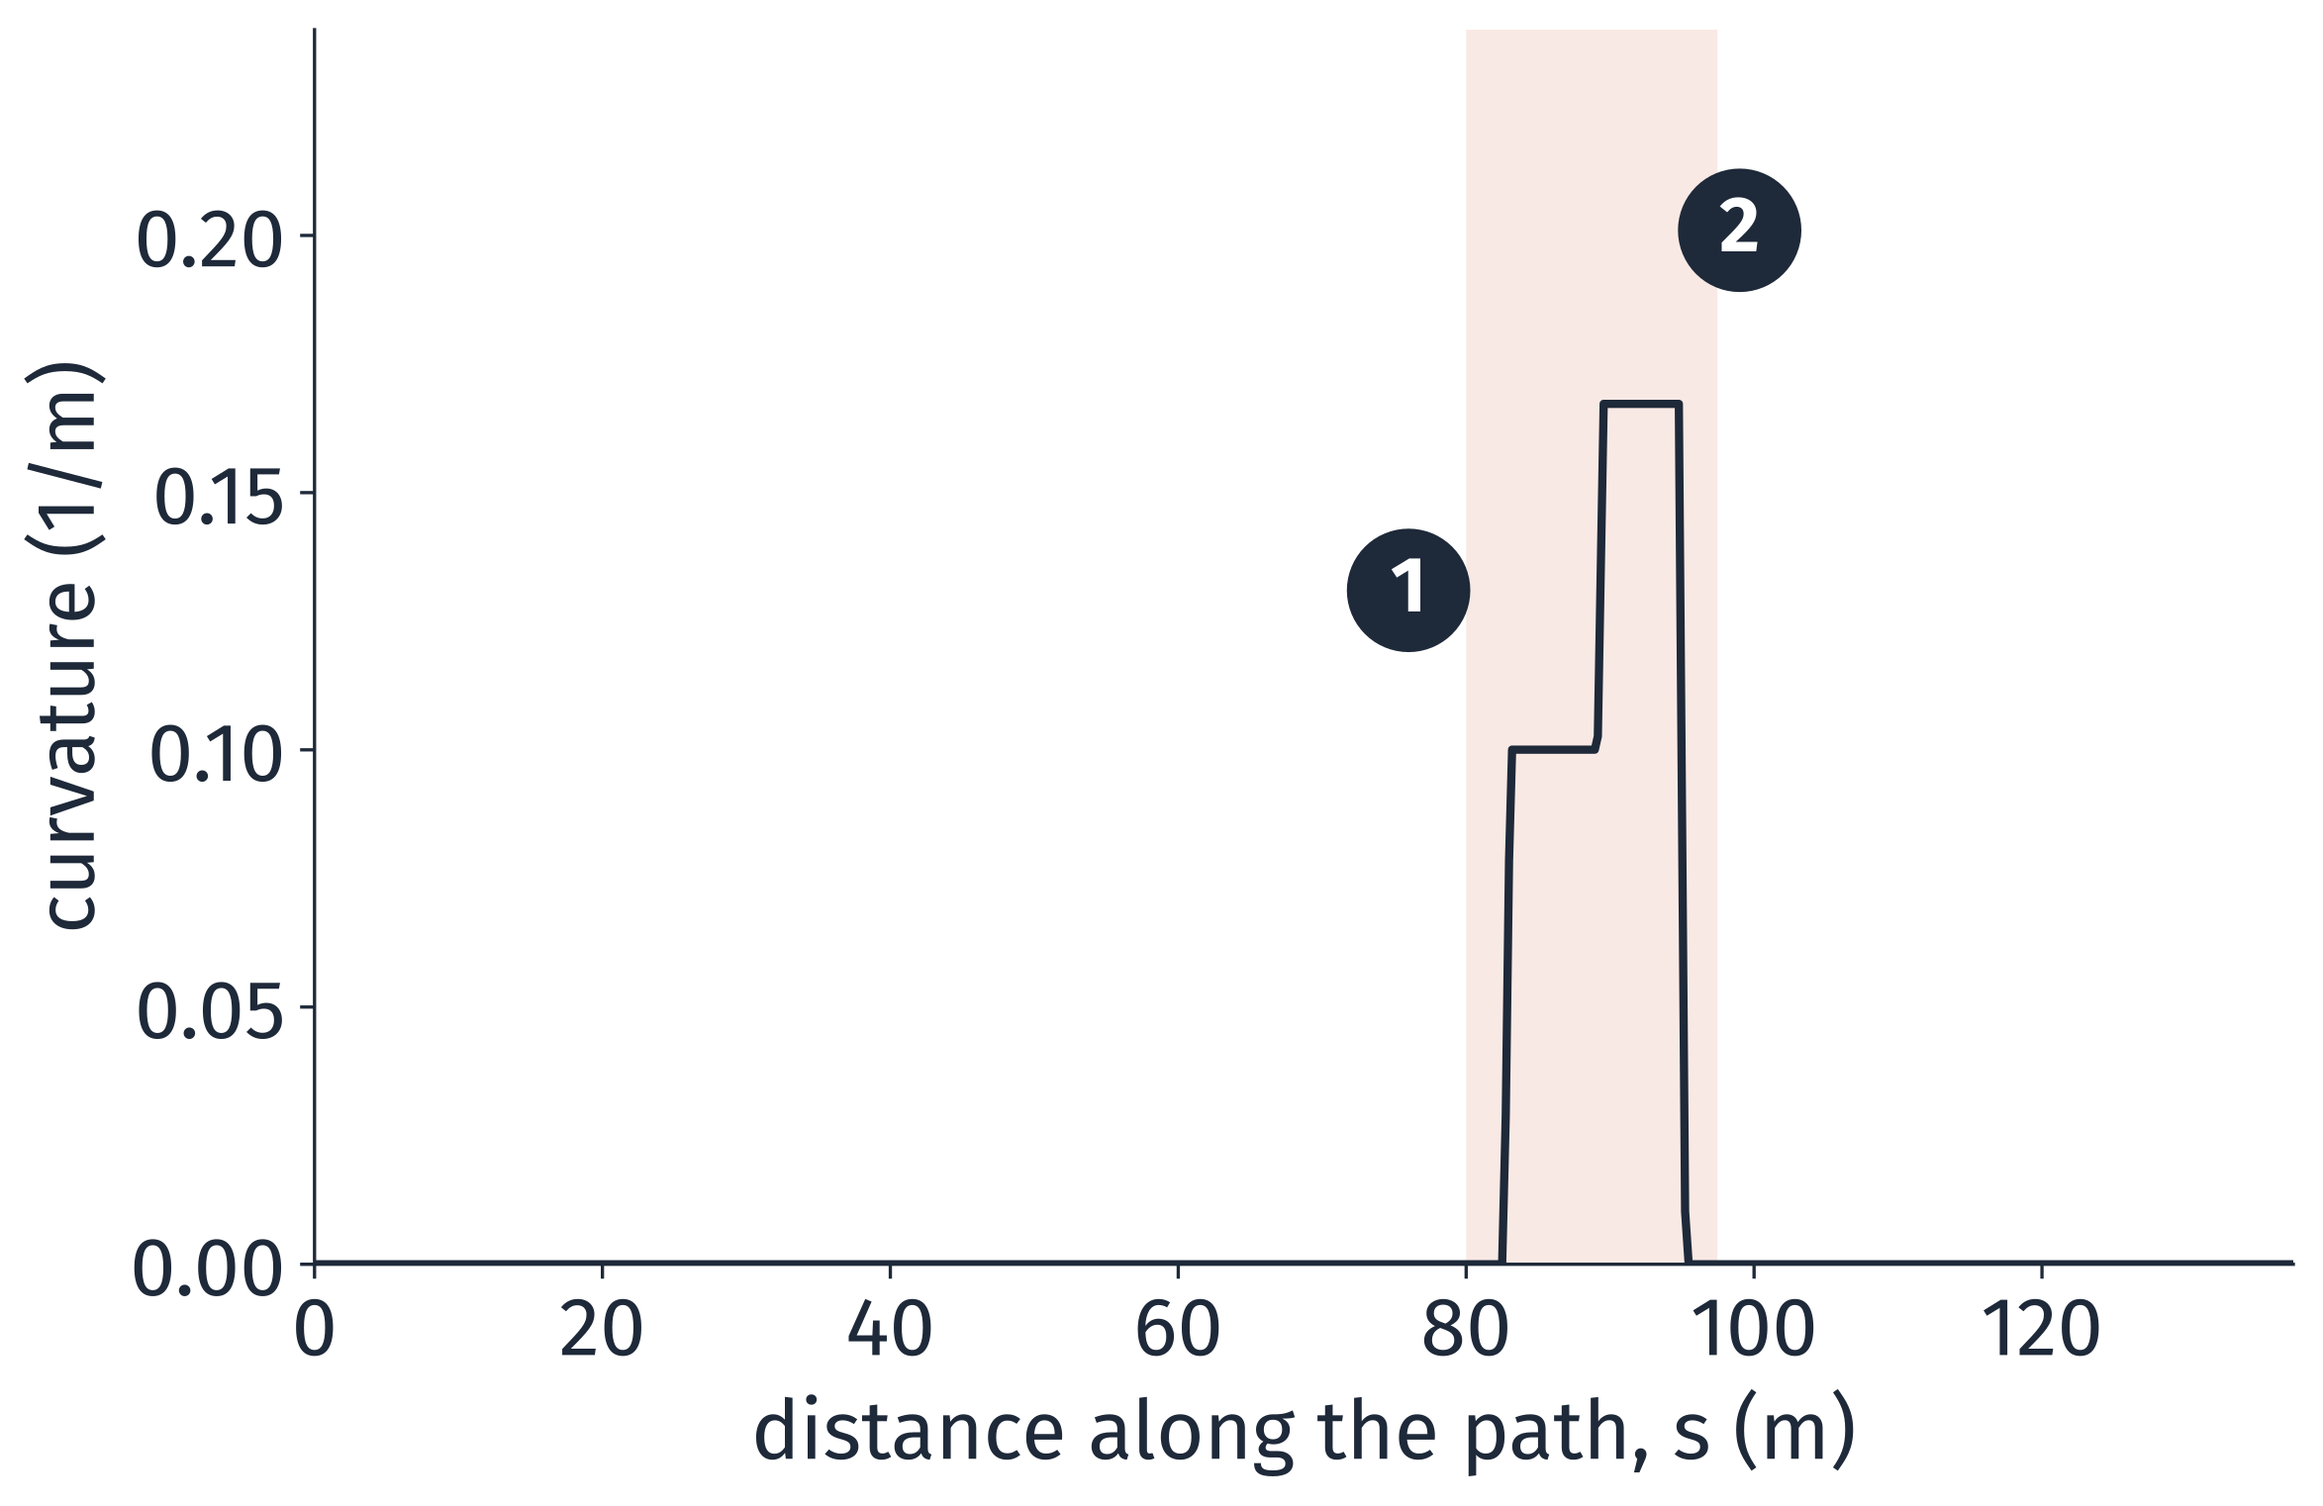
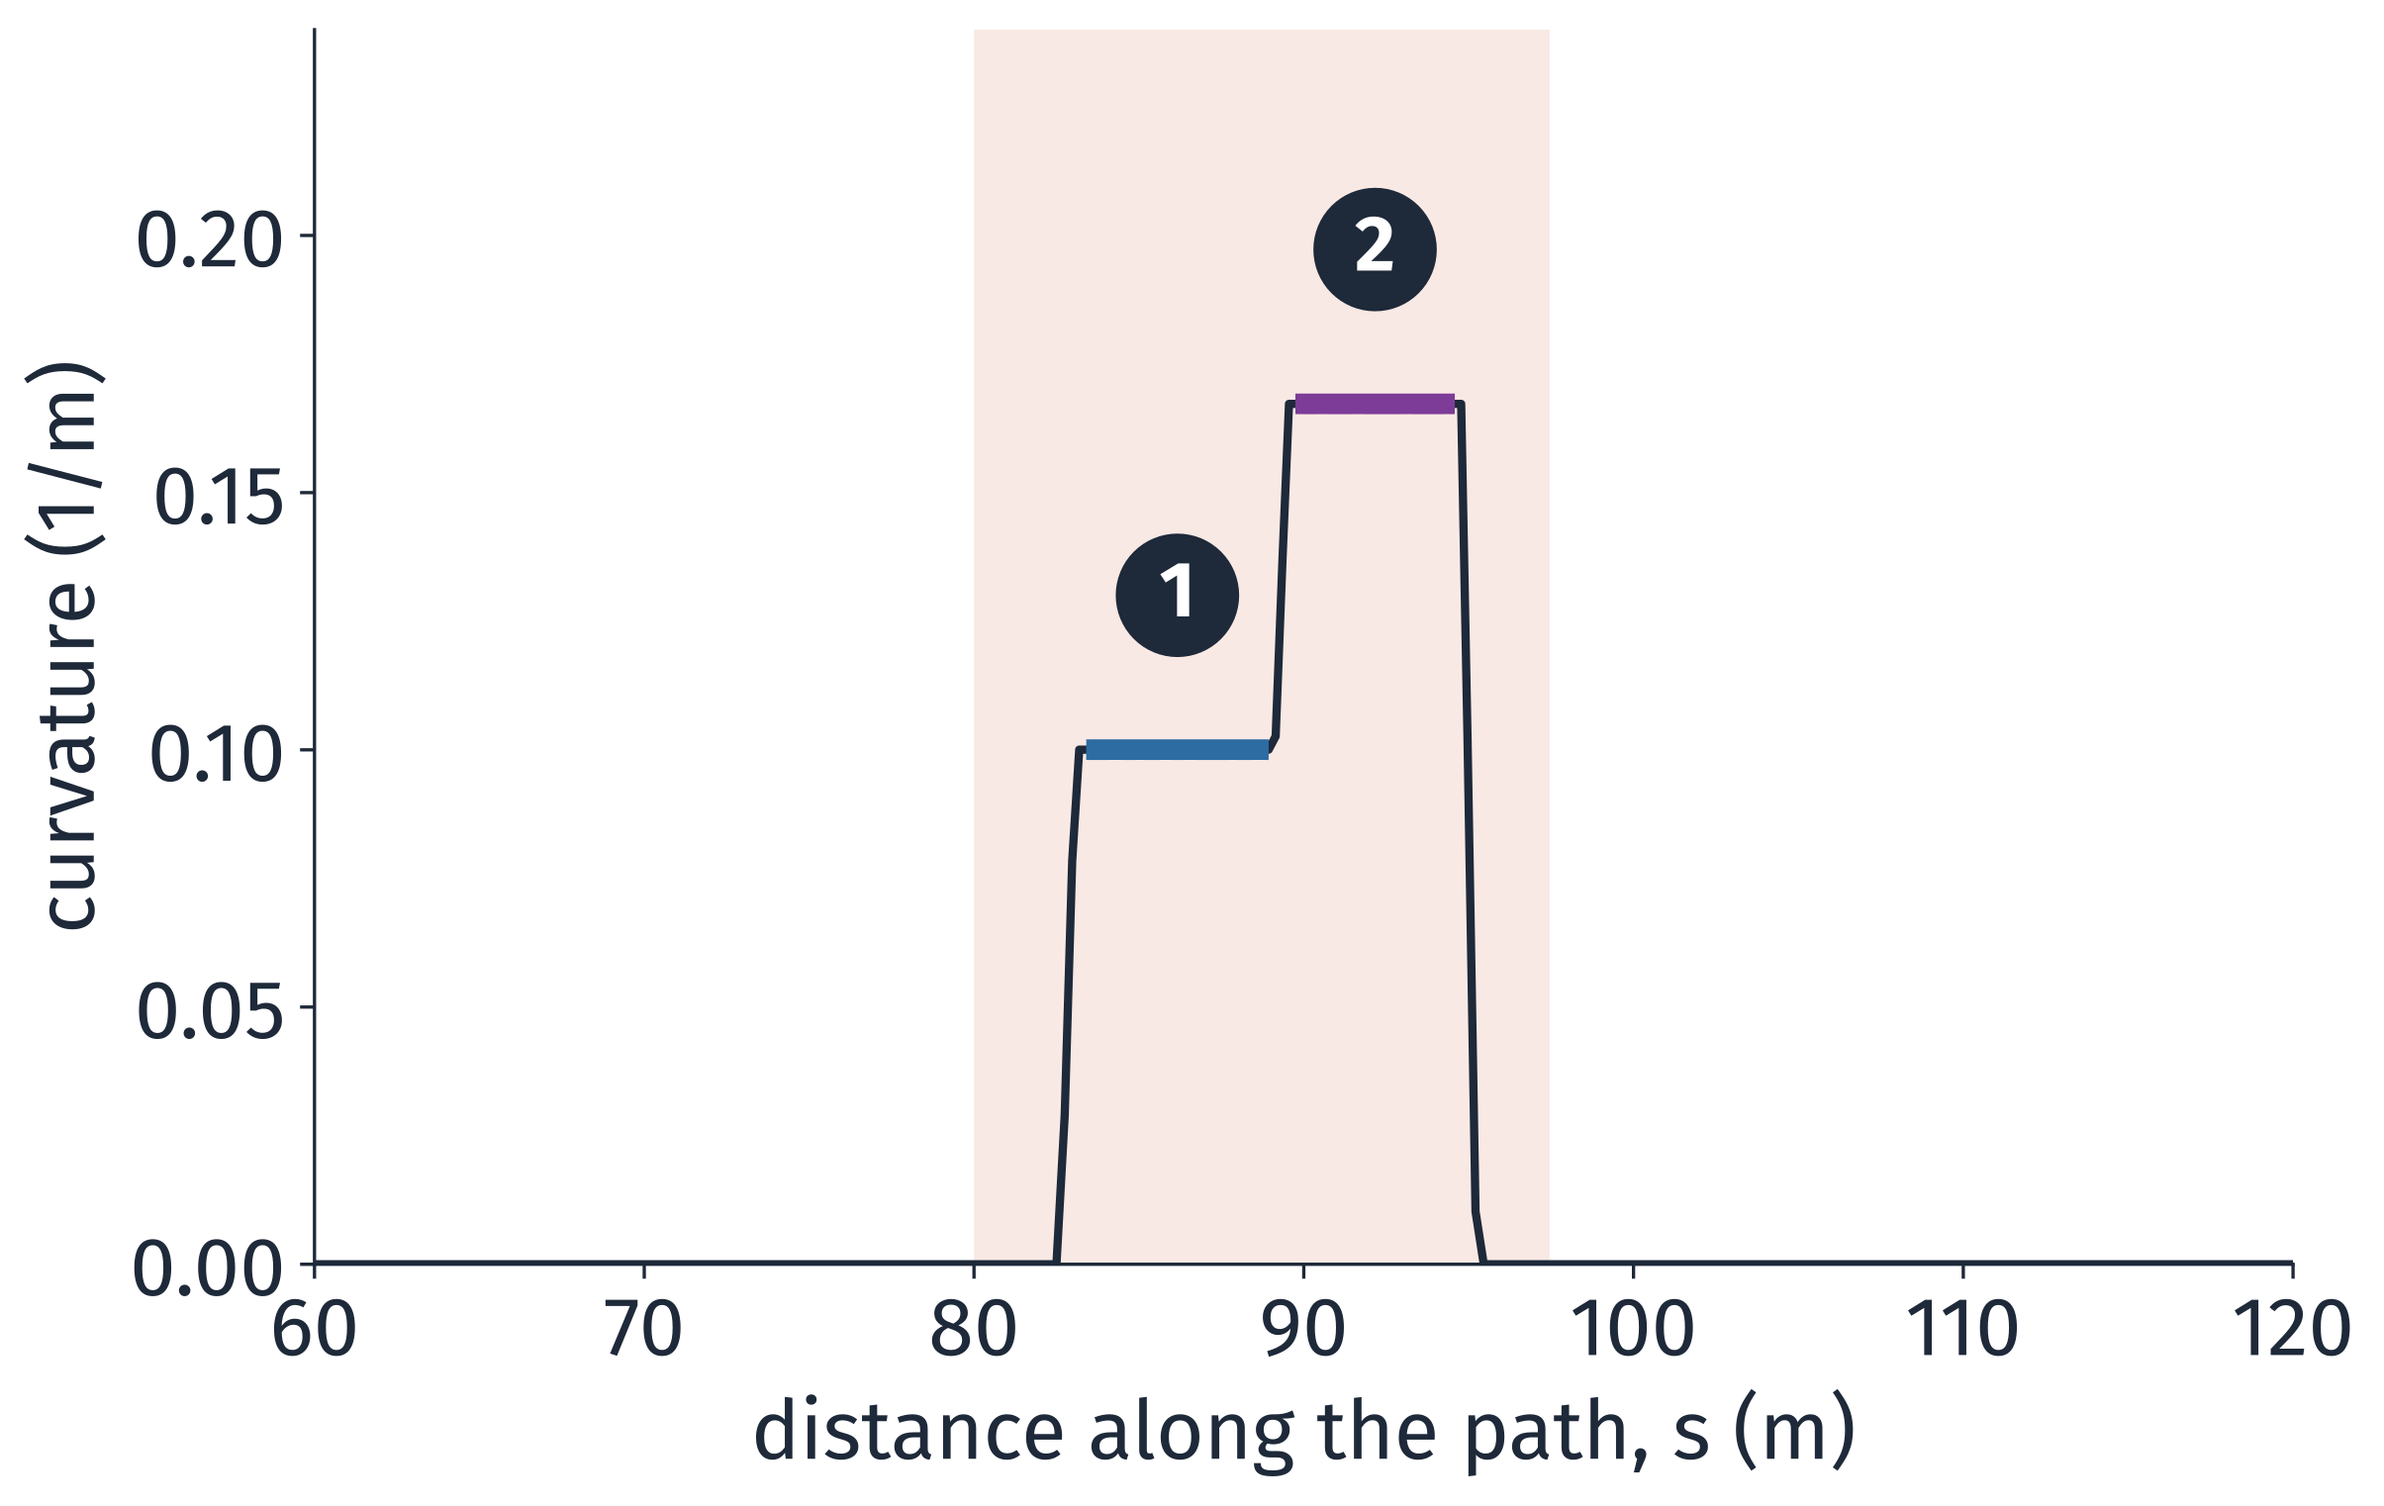
L10: curvature in two sections, with the arcs' circles and the source of their radii

diff --git a/docs/source/lectures/lecture10/l10_lecture.rst b/docs/source/lectures/lecture10/l10_lecture.rst
@@ -2075,8 +2075,8 @@ follows that path, with no local planner in between.
 
 .. _l10-lec-curvature:
 
-Measure How the Turn Bends: Its Curvature Jumps
-~~~~~~~~~~~~~~~~~~~~~~~~~~~~~~~~~~~~~~~~~~~~~~~
+Measure How the Turn Bends: Fit a Circle to Each Arc
+~~~~~~~~~~~~~~~~~~~~~~~~~~~~~~~~~~~~~~~~~~~~~~~~~~~~
 
 .. admonition:: Definition: Curvature
    :class: note
@@ -2085,26 +2085,45 @@ Measure How the Turn Bends: Its Curvature Jumps
    :math:`R` is the radius of the circle that fits the path there. A
    straight road has :math:`\kappa = 0`.
 
+.. figure:: /_static/images/L10/turn_arcs.png
+   :alt: The corner of the test path from above, x from 72 to 99 meters, y from minus 21 to 4, the lane drawn by two black edges with a gray dashed center line, coming from the left and turning right, down. Two pieces of the center line in the corner are thick: a blue one first, then a purple one. A blue dashed circle of radius 10 meters fits the blue piece, with its center, a blue dot near x = 83, y = minus 10, and a blue radius line to the piece, dark tag 1. A smaller purple dashed circle, radius about 6 meters, fits the purple piece, with its center near x = 85, y = minus 7 and a purple radius line, dark tag 2.
+   :width: 60%
+   :align: center
+
+   The corner: two arcs, each part of a circle.
+
+The corner is two arcs, each part of a circle (dashed):
+
+- **Tag 1, first arc** (blue): :math:`R` = 10.00 m, so
+  :math:`\kappa` = 1/10.00 = 0.1000 per meter.
+- **Tag 2, second arc**, tighter (purple): :math:`R` = 5.98 m, so
+  :math:`\kappa` = 1/5.98 = 0.1673 per meter.
+
+**Where the radii come from:** CARLA's map, ``Town03.xodr``, draws this
+corner as two arcs of radius 11.75 and 7.73 m. Our path, the lane's center,
+runs 1.75 m (half the 3.5 m lane) inside them: 11.75 − 1.75 = 10.00 m and
+7.73 − 1.75 = 5.98 m.
+
+
+.. _l10-lec-curvature-graph:
+
+Read the Curvature Along the Path: It Steps Up, Then Down
+~~~~~~~~~~~~~~~~~~~~~~~~~~~~~~~~~~~~~~~~~~~~~~~~~~~~~~~~~
+
 .. figure:: /_static/images/L10/turn_curvature.png
-   :alt: A graph, not a map: curvature in 1 per meter against the distance along the path from 0 to 137.5 meters. The curve is zero up to about 83 meters, jumps to 0.100 (dark tag 1), jumps again near 89.5 meters to 0.167 (dark tag 2), and drops back to zero near 95 meters. The junction lane, from 80 to 97.5 meters, is shaded orange.
+   :alt: A graph, not a map: curvature in 1 per meter against the distance along the path, zoomed on 60 to 120 meters. The curve is zero up to about 83 meters, steps up to 0.100, where a blue plateau runs to about 89 meters with dark tag 1 above it, steps again to 0.167, where a purple plateau runs to about 95 meters with dark tag 2 above it, and drops back to zero. The junction lane, from 80 to 97.5 meters, is shaded orange.
    :width: 80%
    :align: center
 
-   The curvature of the test path.
+A graph, not a map: the curvature :math:`\kappa` against the distance
+:math:`s` along the path. Shaded: the junction lane.
 
-.. admonition:: Reading the figure
-   :class: tip
+- 0 on the straight approach, up to :math:`s` = 83.2 m.
+- Tag 1: 0.1000 on the first arc (blue, as in the last figure), then tag 2:
+  0.1673 on the second (purple), from 89.6 m.
+- 0 again on the exit, from 94.8 m.
 
-   A graph, not a map: the curvature against the distance :math:`s` along
-   the path. The junction lane is shaded orange.
-
-   - **Tag 1:** from 83.2 m, the first arc, :math:`\kappa` = 0.1000 /m, so
-     :math:`R` = 1 / 0.1000 = 10.00 m.
-   - **Tag 2:** from 89.6 m, the second, tighter arc, :math:`\kappa` =
-     0.1673 /m, so :math:`R` = 1 / 0.1673 = 5.98 m.
-
-   Zero on the straight parts. Each change is a step, with no gradual part
-   between.
+Each change is a **step**: no gradual part between.
 
 **What it means for the controllers:**
 

diff --git a/docs/source/changelog/changelog.rst b/docs/source/changelog/changelog.rst
@@ -35,6 +35,10 @@ All notable changes to the ENPM818Z Fall 2026 course documentation are recorded 
    - **L10, "Notation":** how to read :math:`d`, :math:`\dot d`,
      :math:`\ddot d`, :math:`\dddot d` and the same for :math:`s`, before
      the sections that use them.
+   - **L10, curvature in two sections:** a top view of the corner with the
+     circle that fits each arc, and where 0.1000 and 0.1673 come from
+     (``Town03.xodr``'s arcs, 1.75 m outside the lane's center); then the
+     curvature graph, zoomed on the corner, in the same colors.
    - **L10, "Work One d(t)":** one lateral quintic worked with numbers:
      its six coefficients, and d, its speed and its acceleration second by
      second.
